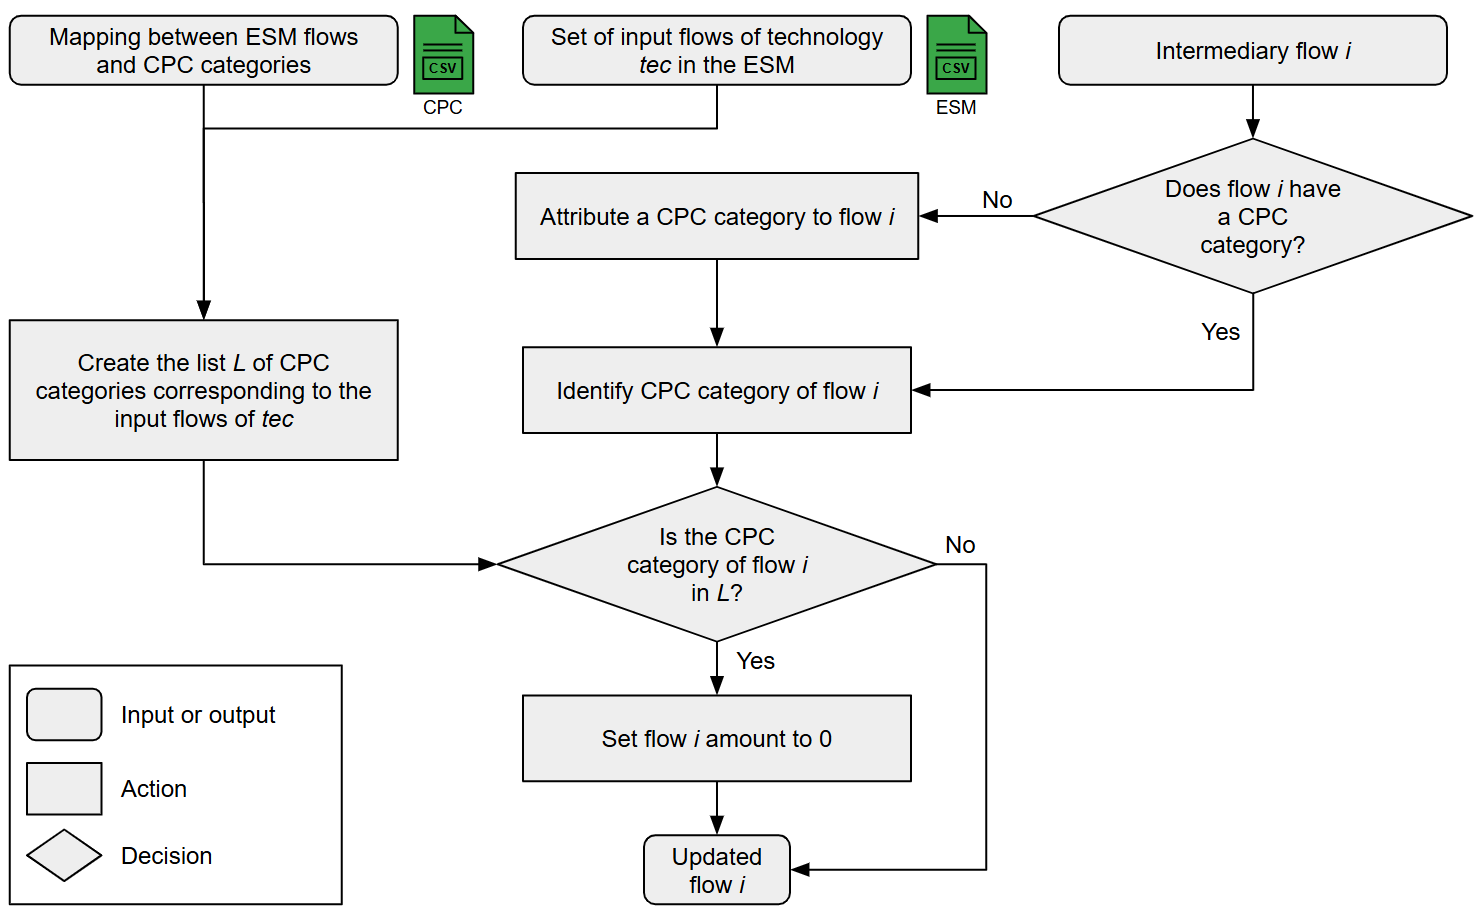
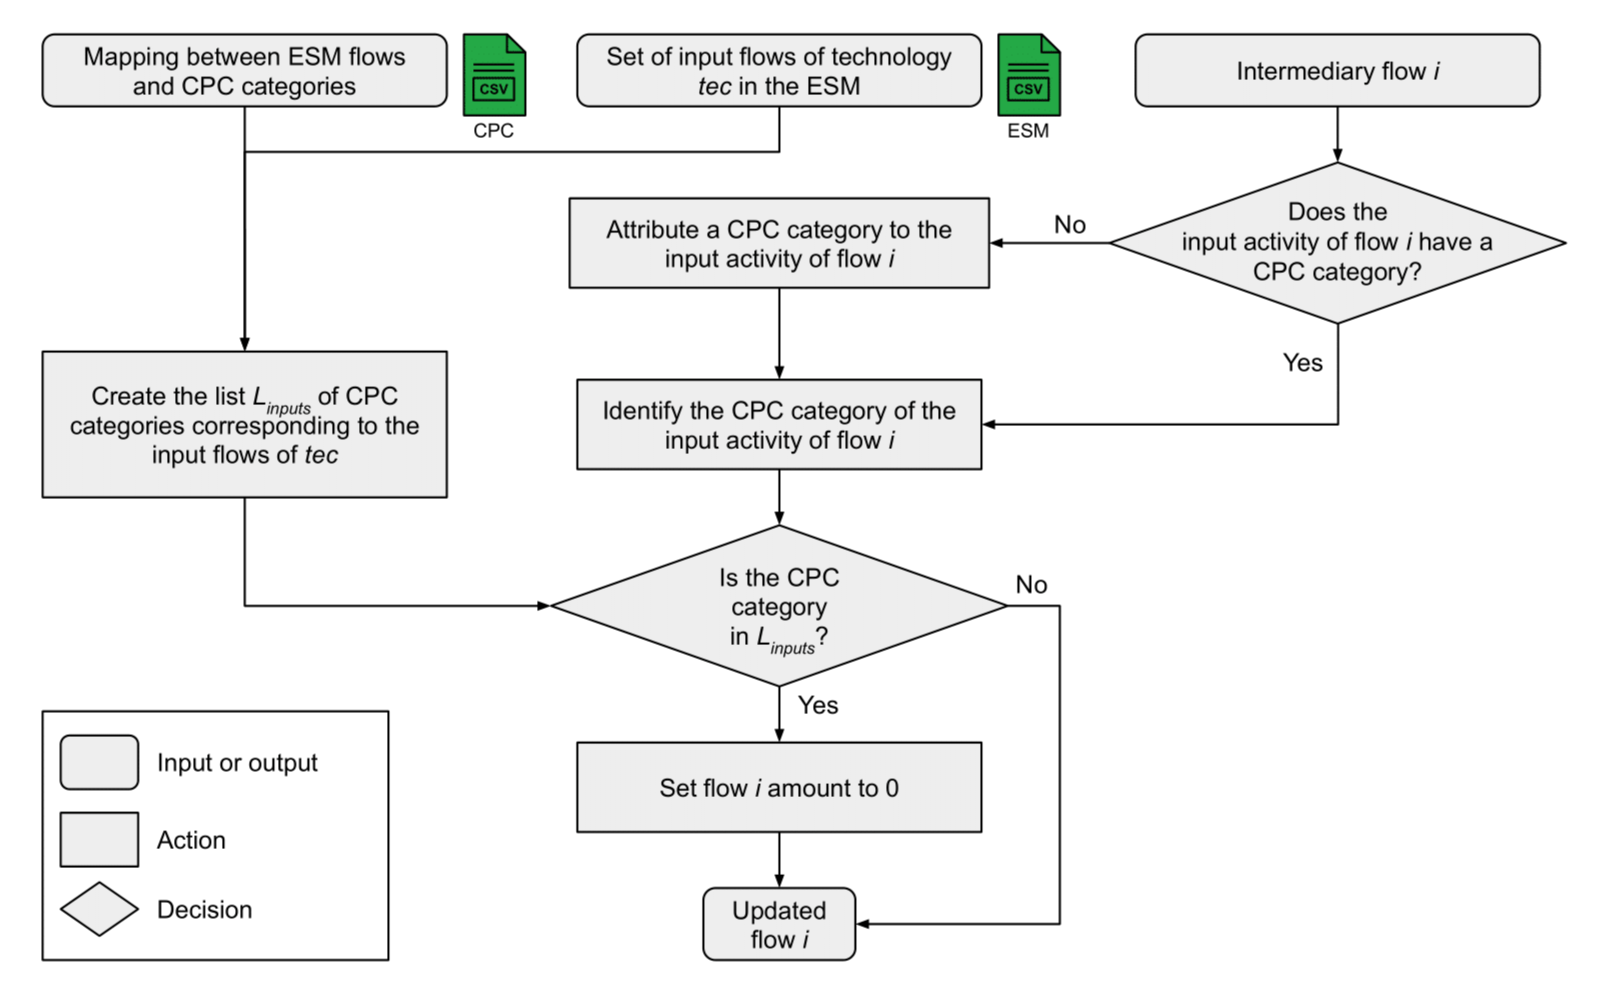
updated manuscript

Changed region(s): [[0.0, 0.0, 0.9939, 1.0], [0.0, 0.7046, 0.2485, 1.0]]

diff --git a/paper.md b/paper.md
@@ -37,14 +37,14 @@ to project their policies and understand their impact on strongly interconnected
 lack environmental indicators, which are essential to assess the sustainability of energy transition scenarios.
 `mescal` is a Python package that integrates Life-Cycle Assessment (LCA) indicators within ESM. It allows energy modellers
 to include a wider set of environmental indicators within their models in a transparent and reproducible way.
-As a results, energy modellers and decision-makers can identify transition scenarios trade-offs and hot spots, thus
+As a result, energy modellers and decision-makers can identify transition scenarios trade-offs and hot spots, thus
 enabling a more holistic sustainability assessment.
 
 # Statement of need
 ESM aim to support decision-makers to design and assess energy transition scenarios. In this work, we focus on 
 bottom-up models, which describe energy technologies with a high level of technical details [@herbst2012].
 Most ESM integrate carbon emissions in their modelling framework to propose and assess climate change mitigation scenarios.
-However, the environmental assessment of energy transition transitions should not be limited to carbon emissions [@hellweg2023].
+However, the environmental assessment of energy transition scenarios should not be limited to carbon emissions [@hellweg2023].
 For instance, the United Nations highlighted three major environmental challenges that humanity is currently facing: climate change, 
 biodiversity loss, and air pollution [@unfccc2022]. Sustainability assessment methods are needed to integrate a broader 
 set of environmental impact categories, including as water use, land use, human toxicity, mineral resource use, etc.
@@ -61,7 +61,7 @@ energy transition scenarios generated by ESM are assessed with LCA as a post-pro
 ESM projections, thus leading to iterative feedback loops between the ESM and the LCA model. 
 For instance, @xu2020 computed environmental impacts of the energy mix obtained from an ESM, and then adjusted energy 
 transition pathways when policy targets were violated. 
-For LCA indicators to be used actively in ESM, and thus in the transition scenarios design, hard-linking 
+For LCA indicators to be used actively in ESM, and thus in transition scenarios design, hard-linked 
 coupling is required. This denotes the endogenous integration of LCA indicators in ESM.
 Several studies have endogenously integrated LCA indicators in ESM [@rauner2017; @vandepaer2020; @algunaibet2019; @reinert2022], thus 
 paving the way for multi-objective optimization. @vandepaer2020 compared the use of the $\epsilon$-constraint 
@@ -77,12 +77,12 @@ Model (IAM), prospective LCI databases (which are typically generated using `pre
 generates prospective versions of _ecoinvent_ using IAM projections) and a mapping 
 between ESM/IAM scenario variables and LCI datasets, `pathways` computes the environmental impacts of transition 
 scenarios and provides insights about their trade-offs and hot spots. `pathways` allows a transparent and reproducible 
-assessment of energy transition scenarios. ESM results can be included in a prospective LCI database using `premise`
-custom scenarios [@sacchi2022], thus making soft-linking coupling possible.
+assessment of energy transition scenarios. ESM/IAM results can be further included in a prospective LCI database using `premise`
+custom scenarios [@sacchi2022], thus making soft-linked coupling possible.
 However, such framework does not allow the endogenous integration of LCA indicators within ESM or IAM, 
 thus significantly limiting energy modellers ability to shape transition scenarios with LCA results.
 
-`mescal` aims address this limitation, by enhancing the reproducibility and transparency of hard-linking coupling 
+`mescal` aims to address this limitation, by enhancing the reproducibility and transparency of hard-linked coupling 
 between LCA and ESM, thus allowing a better comparability among energy modellers envisioning to enlarge their set of 
 sustainability metrics.
 
@@ -115,13 +115,14 @@ geographical context.
 framework [@mutel2017] and the `wurst` Python package, which are tools to perform LCA modelling and calculation 
 within a Python environment.
 
-## Mapping between ESM processes and LCI datasets
+## Mapping between ESM technologies/resources and LCI datasets
 Each technology or resource of the ESM is mapped with one or several LCI datasets (`Mapping.csv`). 
 Technologies are typically mapped with two LCI datasets: 1) an operation LCI dataset, which encompasses 
 the use phase of the technology's life-cycle, and 2) an infrastructure LCI dataset, which encompasses the 
 construction and dismantling phases of the technology's life-cycle. 
-The ESM resources are typically mapped with one operation LCI dataset. Regarding LCI databases, `mescal` is suited for 
-any version of the _ecoinvent_ database [@wernet2016] and any prospective LCI database generated via `premise` [@sacchi2022].
+The ESM resources are typically mapped with one operation LCI dataset, which encompass the resource extraction, 
+processing, and transportation phases. Regarding LCI databases, `mescal` is suited for any version of the 
+_ecoinvent_ database [@wernet2016] and any prospective LCI database generated via `premise` [@sacchi2022].
 
 ## Regionalization and spatialization of LCI datasets
 To make LCI datasets more specific and relevant to the ESM geographical scope, the inventory can 
@@ -133,40 +134,44 @@ locations with respect to the ESM geographical context, `Ranking locations.csv` 
 Foreground regionalization is always performed for intermediary flows, and also for elementary flows if the LCI database 
 is spatialized, i.e., if a geographic location has been attributed to elementary flows [@patouillard2018]. 
 The types and quantities of the flows remain unchanged. The LCI database can be spatialized and its background 
-inventory can be regionalized using the `regioinvent` tool [@maximeagez2025].
+inventory can be regionalized using the `regioinvent` library [@maximeagez2025].
 
-![Flowchart of the regionalization process.\label{fig:flowchart_regionalization}](docs/pics/regionalization_flowchart.png){ width=75% }
+![Flowchart of the foreground regionalization process.\label{fig:flowchart_regionalization}](docs/pics/regionalization_flowchart.png){ width=75% }
 
 ## Double-counting removal
 Double-counting refers to the multiple occurrence of energy flows within the energy system supply chain, thus leading 
 to an overestimation of environmental impacts. For instance, if a coal power plants produces electricity that is 
-further used in a heat pump, impacts of the electricity flow are counted twice: once in the coal power plant LCI dataset
-and once in the heat pump LCI dataset. Volkart et al. proposed a solution to the double-counting issue by 
-setting to zero all flows in the foreground inventory that were also modelled in the ESM [@volkart2018]. 
+later used in a heat pump, impacts of the electricity flow are counted twice: once in the coal power plant LCI dataset
+and once in the heat pump LCI dataset. @volkart2018 proposed a solution to the double-counting issue by 
+setting to zero all flows in the foreground inventory that were also modelled in the ESM. 
 This approach is implemented in `mescal` by identifying the flows to be nullified using their CPC 
 categories [@unitednations2015] (\autoref{fig:flowchart_double_counting}). In the previous example, the input electricity
-flow of the heat pump LCI dataset would be set to zero.
+flow of the heat pump operation LCI dataset would be set to zero.
 
-![Flowchart of the double-counting removal process.\label{fig:flowchart_double_counting}](docs/pics/double_counting_flowchart.png)
+![Flowchart of the double-counting removal process. The attribution of CPC categories to activities that do not have 
+one is based on their reference product.\label{fig:flowchart_double_counting}](docs/pics/double_counting_flowchart.png)
 
 In the case of market-type LCI datasets, the flows to be nullified are contained in the background inventory. 
 `mescal` determines the set of LCI datasets on which the double-counting removal process should be applied via a 
 recursive algorithm exploring the market-type datasets backgrounds (\autoref{fig:flowchart_background_search}).
 
-![Flowchart of the background search process.\label{fig:flowchart_background_search}](docs/pics/background_search_flowchart.png)
+![Flowchart of the background search process. $k_{max}$ is the maximum authorized tree depth. $N_{int. flow}(act)$ is the 
+number of intermediary flows on the activity $act$.\label{fig:flowchart_background_search}](docs/pics/background_search_flowchart.png)
 
 ## ESM and LCI database harmonization
 `mescal` adjusts LCI datasets and impact scores to account for differences between the ESM and LCI database:
 
 - **Technologies lifetime**: Infrastructure LCA indicators are annual impacts, thus `mescal` adjusts the 
-infrastructure impact scores to integrate the difference in lifetime between ESM technologies and their 
+infrastructure impact scores to integrate the difference of lifetime between ESM technologies and their 
 infrastructure LCI datasets. The infrastructure specific impact score ($lcia_{infra}$) is multiplied by the ratio 
-between the ESM lifetime ($n_{ESM}$) and the LCI dataset lifetime ($n_{LCI}$) to ensure that the annual impact in the 
+between the ESM lifetime ($n_{ESM}$) and the LCI dataset lifetime ($n_{LCI}$) (`Lifetime.csv`) to ensure that the annual impact in the 
 ESM is computed with the LCI dataset lifetime, thus resulting in the adjusted infrastructure specific impact score 
-($lcia_{infra}^{adj}$).
+($lcia_{infra}^{adj}$ in \autoref{eq:lcia_infra_adj}).
 
 $$
+\begin{equation}\label{eq:lcia_infra_adj}
 lcia_{infra}^{adj}(j,k) = lcia_{infra}(j,k) \cdot \frac{n_{ESM}(j)}{n_{LCI}(j)} \quad \forall (j,k) \in TECH \times ENV
+\end{equation}
 $$
 
 - **Technologies efficiency**: Efficiencies of technologies in the ESM and LCI database should be harmonized, 
@@ -175,19 +180,22 @@ efficiency between a technology and its corresponding operation LCI dataset woul
 the amount of direct emissions. `mescal` resolves this issue by adjusting the amount of direct emissions proportionally 
 to the efficiency difference. Except land occupation, land transformation and energy elementary flows, the amounts ($q$) 
 of all elementary flows in the operation LCI datasets foregrounds are adjusted using the ratio between 
-the LCI dataset ($\eta_{LCI}$) and the ESM ($\eta_{ESM}$) efficiencies (`Lifetime.csv`), thus resulting in adjusted direct emissions amounts ($q^{adj}$). 
+the LCI dataset ($\eta_{LCI}$) and the ESM ($\eta_{ESM}$) efficiencies, thus resulting in adjusted direct emissions 
+amounts ($q^{adj}$ in \autoref{eq:q_adj}). 
 The efficiency of the operation LCI dataset ($\eta_{LCI}$) is computed using the quantity of fuel that was removed during the 
 double-counting removal step, while the efficiency of the ESM process ($\eta_{ESM}$) is computed from `ESM.csv`. This transformation 
-is applied to a list of ESM technologies given by the user (`Efficiency.csv`), typically technologies involving a combustion process. 
+is applied to a list of relevant ESM technologies (`Efficiency.csv`), e.g., technologies involving a combustion process.
 
 $$
+\begin{equation}\label{eq:q_adj}
 q^{adj}(ef, j) = q(ef, j) \cdot \frac{\eta_{LCI}(j)}{\eta_{ESM}(j)} \quad \forall (ef, j) \in EF \setminus \{\text{land, energy}\} \times TECH
+\end{equation}
 $$
 
-- **Physical units**: The energy and material output flows may be expressed in different units in the ESM and the LCI 
+- **Physical units**: The product flows may be expressed in different units in the ESM and the LCI 
 database. Specific impact scores are multiplied by a conversion factor, which converts the specific LCA 
 scores physical unit from [impact category unit / LCI output unit] to [impact category unit / ESM output unit]. 
-Conversion factors encompass LCI datasets assumptions such as capacity factors or vehicle load factors.
+Conversion factors encompass LCI datasets assumptions such as capacity factors or vehicle load factors (`Conversion factors.csv`).
 
 - **Generation of new LCI datasets**: `mescal` generates new LCI datasets by operating modifications on existing ones, 
 to enhance their alignment with the corresponding ESM technology. For example, biodiesel-fuelled mobility LCI datasets
@@ -207,31 +215,45 @@ significant discrepancies in magnitude across impact categories. By aligning all
 magnitude, numerical stability is improved in the solving process. 
 Furthermore, considerable discrepancies in magnitude may be observed between infrastructure and operation LCA indicators 
 within the same impact category, as these are not expressed with the same physical unit. 
-Consequently, a scaling factor ($lcia_{op,max}(k) / lcia_{infra,max}(k)$) is applied to infrastructure LCA indicators, 
-to ensure that both the highest infrastructure and operation metric are normalized to 1. 
-The scaling factor invert is then applied to keep the magnitude difference between operation and infrastructure LCA indicators. 
-Normalization is performed with the maximum indicator ($lcia_{max}$) of each impact category. 
-In addition, all normalized indicators ($lcia_{type}^{norm}$) that are below a threshold ($\epsilon$) are set to zero. 
-This aims to determine the maximum order of magnitude between the highest and lowest indicators of an impact category, 
-to eventually facilitate the solver convergence.
+Consequently, a scaling factor ($lcia_{op,max}(k) / lcia_{infra,max}(k)$ in \autoref{eq:lcia_infra_scaled}) is applied 
+to infrastructure LCA indicators, to ensure that both the highest infrastructure and operation indicators are normalized to 1. 
+The scaling factor invert is then applied to normalized infrastructure indicators (autoref{eq:lcia_type_norm}), 
+in order to keep the magnitude difference between operation and infrastructure LCA indicators in ESM. 
+Normalization is performed with the maximum indicator ($lcia_{max}$ in \autoref{eq:lcia_max}) of each impact category. 
+In addition, all normalized indicators ($lcia_{type}^{norm}$ in autoref{eq:lcia_type_norm}) that are below a threshold 
+($\epsilon$) are set to zero. This aims to determine the maximum order of magnitude between the highest and lowest 
+indicators of an impact category, to eventually facilitate the solver convergence.
 
 $$
+\begin{equation}\label{eq:lcia_type_max}
 \begin{split}
-lcia_{infra}^{scaled}(j,k) & = lcia_{infra}^{adj}(j,k) \cdot \dfrac{\max(lcia_{op}(j,k) \ | \ j \in TECH \ \cup \ RES)}{\max(lcia_{infra}(j,k) \ | \ j \in TECH)} \\
-& \forall (j,k) \in TECH \times ENV
+lcia_{type,max}(k) & = \max(lcia_{type}(j,k) \ | \ j \in TECH \ \cup \ RES) \\
+& \forall type \in \{infra, op\} \quad \forall k \in ENV
 \end{split}
+\end{equation}
 $$
 
 $$
+\begin{equation}\label{eq:lcia_infra_scaled}
+lcia_{infra}^{scaled}(j,k) & = lcia_{infra}^{adj}(j,k) \cdot \dfrac{lcia_{op,max}(k)}{lcia_{infra,max}(k)} \forall (j,k) \in TECH \times ENV
+\end{equation}
+$$
+
+$$
+\begin{equation}\label{eq:lcia_max}
 lcia_{max}(k) = \max(lcia_{type,max}(j,k) \ | \ type \in \{infra, op\}, \ j \in TECH) \quad \forall k \in ENV
+\end{equation}
 $$
 
 $$
+\begin{equation}\label{eq:lcia_type_norm}
 lcia_{type}^{norm}(j,k) = 
 \begin{cases}
     0 \text{ if } \dfrac{lcia_{type}^{(scaled)}(j,k)}{lcia_{max}(k)} \leq \epsilon \\
-    \dfrac{lcia_{type}^{(scaled)}(j,k)}{lcia_{max}(k)} \cdot \dfrac{lcia_{infra,max}(k)}{lcia_{op,max}(k)} \text{ else}
+    \dfrac{lcia_{type}^{(scaled)}(j,k)}{lcia_{max}(k)} \cdot \dfrac{lcia_{infra,max}(k)}{lcia_{op,max}(k)} \text{ elif } type = infra \\
+    \dfrac{lcia_{type}^{(scaled)}(j,k)}{lcia_{max}(k)} \text{ else}
 \end{cases}
+\end{equation}
 $$
 $$
 \forall (j,k) \in TECH \ \cup \ RES \times ENV \quad \forall type \in \{infra, op\}
@@ -240,27 +262,33 @@ $$
 ## Equations specification
 The following set of modelling equations is included in ESM.
 The environmental objective ${LCIA_{tot}}$ is defined as the sum of the impacts of the infrastructure, operation, 
-and resource parts, namely ${LCIA_{infra}}$, ${LCIA_{op}}$, and ${LCIA_{res}}$.
+and resource parts (\autoref{eq:lcia_tot}).
 The infrastructure impact is derived from the normalized specific impact ($lcia^{norm}_{infra}$), which is computed 
 from the infrastructure LCI dataset. The normalized specific impact is divided by the technology's lifetime in the ESM 
-($n_{ESM}$), and scaled with the technology's installed capacity (${F}$). The operation and resource impacts are 
-respectively derived from the operation and resource normalized specific impacts ($lcia^{norm}_{op}$ and 
-$lcia^{norm}_{res}$), which are respectively computed from the operation and resource LCI datasets, and scaled 
-with the annual operation (${F_t} \times t_{op}$). 
+($n_{ESM}$), and scaled with the technology's installed capacity (${F}$) (\autoref{eq:lcia_infra}). 
+The operation and resource impacts are respectively derived from the operation and resource normalized specific 
+impacts ($lcia^{norm}_{op}$), which are respectively computed from the operation and resource LCI datasets, and scaled 
+with the annual operation (${F_t} \times t_{op}$) (\autoref{eq:lcia_op}). 
 
 $$
+\begin{equation}\label{eq:lcia_tot}
 \begin{split}
 {LCIA_{tot}}(k) & = \sum_{j \in TECH} \left( {LCIA_{infra}}(j, k) + {LCIA_{op}}(j, k) \right) + \sum_{r \in RES} {LCIA_{op}}(r, k) \\ 
 & \forall k \in ENV
 \end{split}
+\end{equation}
 $$
 
 $$
+\begin{equation}\label{eq:lcia_infra}
 {LCIA_{infra}}(j, k) = lcia_{infra}^{norm}(j, k) \cdot {F}(j) \cdot \frac{1}{n_{ESM}(j)} \quad \forall (j, k) \in TECH \times ENV
+\end{equation}
 $$
 
 $$
+\begin{equation}\label{eq:lcia_op}
 {LCIA_{op}}(j, k) = lcia_{op}^{norm}(j, k) \cdot \sum_{t \in T} {F_t}(j, t) \cdot t_{op}(t) \quad \forall (j, k) \in TECH \cup RES \times ENV
+\end{equation}
 $$
 
 ## Integrating ESM results in the LCI database
